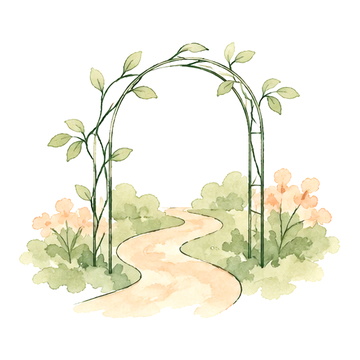
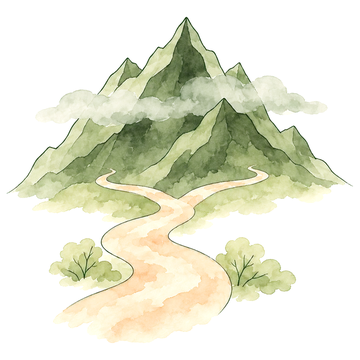
Homepage preview: new transitions illustration, stronger free-call card

diff --git a/home/style.css b/home/style.css
@@ -594,3 +594,26 @@ h1 em,h2 em{ font-weight:400; color:var(--green); }
 .portrait-frame{ aspect-ratio:900/1078; border-radius:0; background:none; overflow:visible; margin:-10% -14% -8% -16%; }
 .portrait-frame img{ position:static; width:100%; height:100%; left:auto; top:auto; }
 .portrait::before{ display:none; }
+
+/* =====================================================================
+   Fourth pass: the free first call is the page's main invitation, so its
+   card goes dark and takes the peach of the logo branch.
+   ===================================================================== */
+.intro-card{ background:var(--forest); color:rgba(255,253,249,.86); border-radius:32px;
+  padding:clamp(34px, 4vw, 48px); box-shadow:0 40px 70px -38px rgba(30,66,50,.75), 0 0 0 8px rgba(217,155,114,.16); }
+.intro-card::before{ right:-120px; top:-130px; width:340px; height:340px;
+  background:radial-gradient(closest-side, rgba(217,155,114,.34), transparent); }
+.intro-card::after{ content:""; position:absolute; z-index:0; right:-26px; top:-34px; width:150px; height:234px;
+  background:url(img/logo-mark.webp) center/contain no-repeat; transform:rotate(24deg); opacity:.9; pointer-events:none; }
+.intro-card h3{ color:var(--paper); font-size:clamp(2rem, 2.6vw, 2.35rem); line-height:1.12; max-width:9.5em; padding-right:70px; }
+.intro-card h3::after{ content:""; display:block; width:56px; height:3px; border-radius:3px; background:#D99B72; margin-top:18px; }
+.intro-card .pills li{ background:transparent; color:#F3C9AC; border:1.5px solid rgba(217,155,114,.65); padding:7px 17px; }
+.intro-card p{ color:rgba(255,253,249,.86); }
+.intro-card p:last-of-type{ color:#F3C9AC; font:italic 500 1.16rem/1.45 var(--serif); }
+.intro-card .btn-primary{ background:#E3A67E; color:var(--forest); align-self:stretch; padding:18px 16px; font-size:1rem; gap:8px; white-space:nowrap;
+  box-shadow:0 16px 30px -16px rgba(0,0,0,.6); }
+.intro-card .btn-primary:hover{ background:#EDB894; }
+@media (max-width:640px){
+  .intro-card::after{ width:110px; height:172px; right:-18px; top:-26px; }
+  .intro-card h3{ padding-right:56px; }
+}
